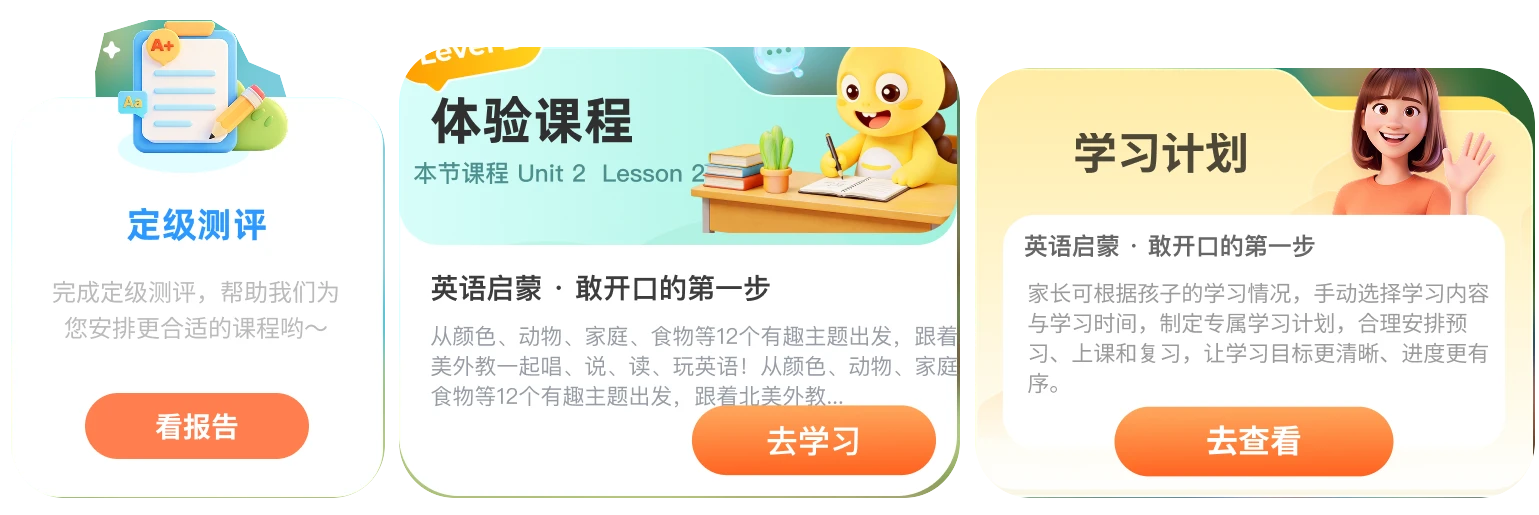
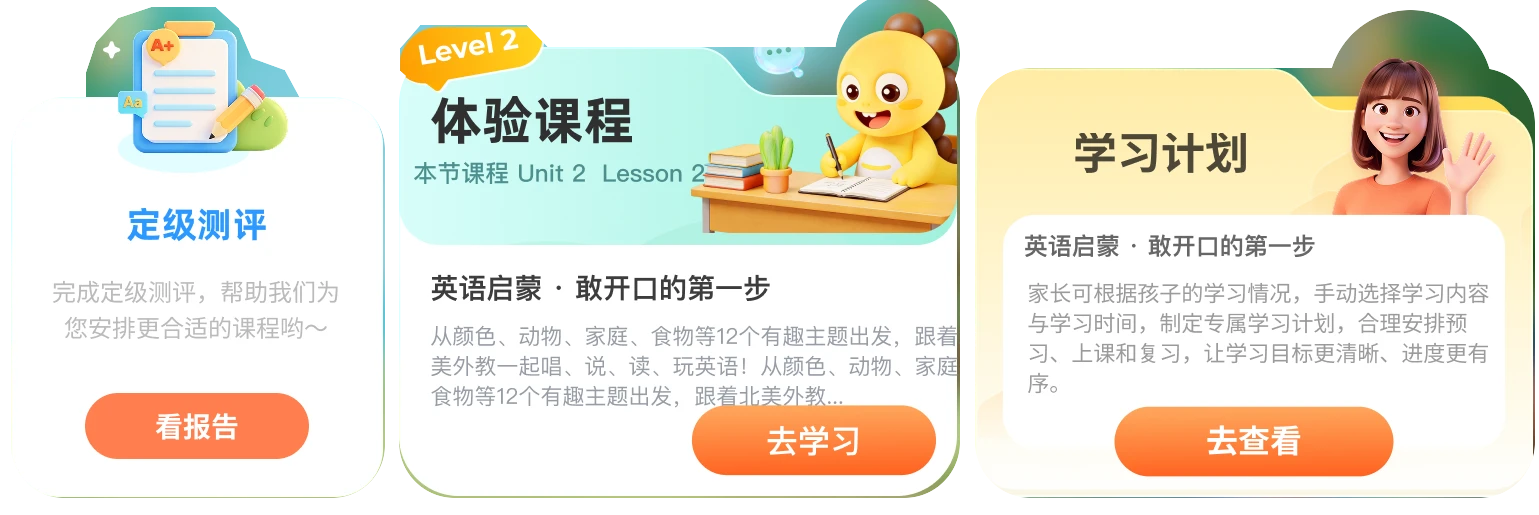
Restore full smart card artwork bounds

diff --git a/index.html b/index.html
@@ -419,7 +419,7 @@
         <h1 class="sr-only" id="smartTitle">双师智学</h1>
         <div class="smart-card-slider" aria-label="双师智学全部卡片，可左右滑动">
           <div class="smart-card-group">
-            <img src="assets/smart-card-strip-transparent.webp?v=1" alt="定级测评、体验课程与学习计划" draggable="false" />
+            <img src="assets/smart-card-strip-transparent.webp?v=2" alt="定级测评、体验课程与学习计划" draggable="false" />
             <div class="smart-card-hotspot smart-card-hotspot--assessment" data-smart-slide="assessment" role="button" tabindex="0" aria-label="查看定级测评报告"></div>
             <div class="smart-card-hotspot smart-card-hotspot--trial" data-smart-slide="trial" role="button" tabindex="0" aria-label="进入体验课程"></div>
             <div class="smart-card-hotspot smart-card-hotspot--plan" data-smart-slide="plan" role="button" tabindex="0" aria-label="查看并设置学习计划"></div>
